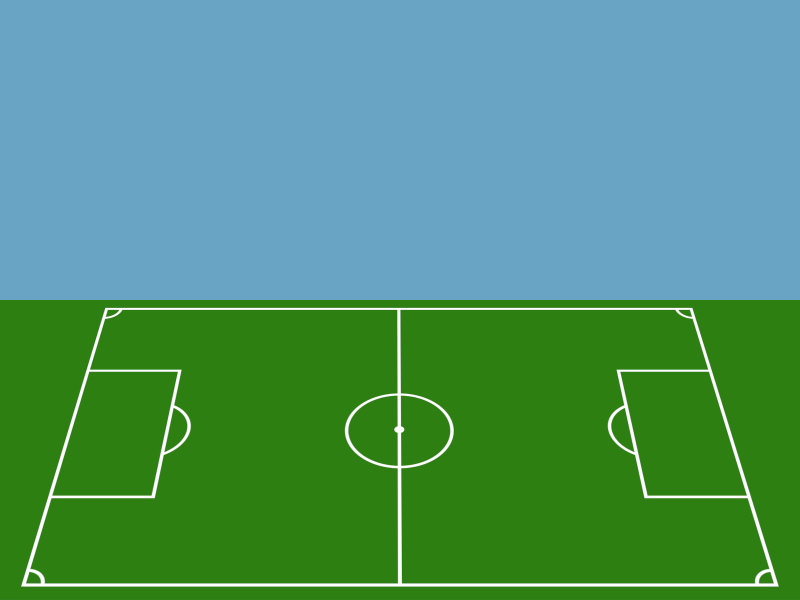
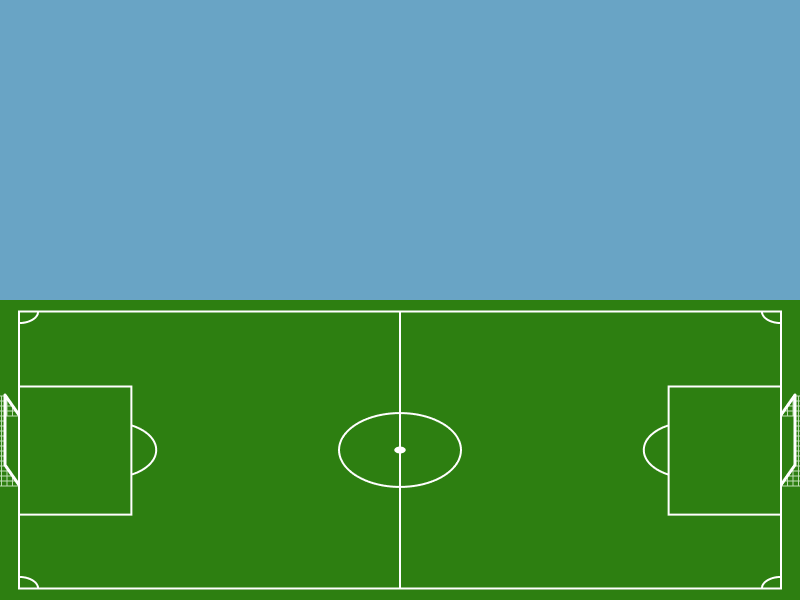
Remove perspective add goals

Changed region(s): [[0.0, 0.51, 1.0, 0.99], [0.4062, 0.63, 0.5938, 0.84]]

diff --git a/src/systems/render/render.ts b/src/systems/render/render.ts
@@ -13,24 +13,16 @@ export function render(world: World) {
   const scale = (width * 0.8) / world.field.rect.size.x;
 
   function toScreenSpace(vector: { x: number; y: number }) {
-    const SCREEN_X1 = 107;
-    const SCREEN_W1 = width - 2 * SCREEN_X1;
-    const SCREEN_Y1 = 309;
+    const SCREEN_X1 = 19.05;
+    const SCREEN_Y1 = 311.54;
+    const SCREEN_W = 761.9;
+    const SCREEN_H = 276.92;
 
-    const SCREEN_X2 = 24;
-    const SCREEN_W2 = width - 2 * SCREEN_X2;
-    const SCREEN_Y2 = 584;
+    const SCREEN_CENTER_X = SCREEN_X1 + SCREEN_W / 2;
+    const SCREEN_CENTER_Y = SCREEN_Y1 + SCREEN_H / 2;
 
-    const SCREEN_CENTER_X = width / 2;
-    const SCREEN_CENTER_Y = (SCREEN_Y2 + SCREEN_Y1) / 2;
-
-    const slopeX = (SCREEN_W2 - SCREEN_W1) / (SCREEN_Y2 - SCREEN_Y1);
-    const scaleY = (SCREEN_Y2 - SCREEN_Y1) / world.field.rect.size.y;
-    // TODO: Y is actually calculated incorrectly
-    const y = vector.y * scaleY + SCREEN_CENTER_Y;
-    const yOffset = y - SCREEN_Y1;
-    const yWidth = SCREEN_W1 + yOffset * slopeX;
-    const scaleX = yWidth / world.field.rect.size.x;
+    const scaleY = SCREEN_H / world.field.rect.size.y;
+    const scaleX = SCREEN_W / world.field.rect.size.x;
 
     return {
       x: vector.x * scaleX + SCREEN_CENTER_X,
@@ -38,41 +30,9 @@ export function render(world: World) {
     };
   }
 
-  function fillRect(x: number, y: number, width: number, height: number) {
-    ctx.beginPath();
-    const topLeft = toScreenSpace({ x, y });
-    ctx.moveTo(topLeft.x, topLeft.y);
-    const topRight = toScreenSpace({ x: x + width, y });
-    ctx.lineTo(topRight.x, topRight.y);
-    const bottomRight = toScreenSpace({ x: x + width, y: y + height });
-    ctx.lineTo(bottomRight.x, bottomRight.y);
-    const bottomLeft = toScreenSpace({ x, y: y + height });
-    ctx.lineTo(bottomLeft.x, bottomLeft.y);
-    ctx.closePath();
-    ctx.fill();
-  }
-
   ctx.clearRect(0, 0, width, height);
 
   ctx.drawImage(backgroundImage, 0, 0, width, height);
-
-  // ctx.fillStyle = "limegreen";
-  // fillRect(
-  //   world.field.rect.position.x,
-  //   world.field.rect.position.y,
-  //   world.field.rect.size.x,
-  //   world.field.rect.size.y
-  // );
-
-  for (const goal of world.goals) {
-    ctx.fillStyle = goal.team;
-    fillRect(
-      goal.rect.position.x,
-      goal.rect.position.y,
-      goal.rect.size.x,
-      goal.rect.size.y
-    );
-  }
 
   const ballPosition = toScreenSpace(world.ball.position);
   ctx.fillStyle = "white";
@@ -84,24 +44,6 @@ export function render(world: World) {
 
   for (const player of world.players) {
     const position = toScreenSpace(player.position);
-    ctx.strokeStyle = "white";
-    ctx.beginPath();
-    ctx.arc(
-      position.x,
-      position.y,
-      player.controlRadius * scale,
-      0,
-      2 * Math.PI
-    );
-    ctx.stroke();
-  }
-
-  for (const player of world.players) {
-    const position = toScreenSpace(player.position);
-    ctx.fillStyle = "black";
-    ctx.beginPath();
-    ctx.arc(position.x, position.y, 3, 0, 2 * Math.PI);
-    ctx.fill();
 
     const assets = getAssets(player);
 
@@ -110,7 +52,7 @@ export function render(world: World) {
     const leftLegStraight = player.animation.leftLeg.isStraight;
     const rightLegStraight = player.animation.rightLeg.isStraight;
 
-    const IMAGE_SCALE = 0.3;
+    const IMAGE_SCALE = 0.4;
 
     const BODY_IMG_WIDTH = 100 * IMAGE_SCALE;
     const BODY_IMG_HEIGHT = 200 * IMAGE_SCALE;
